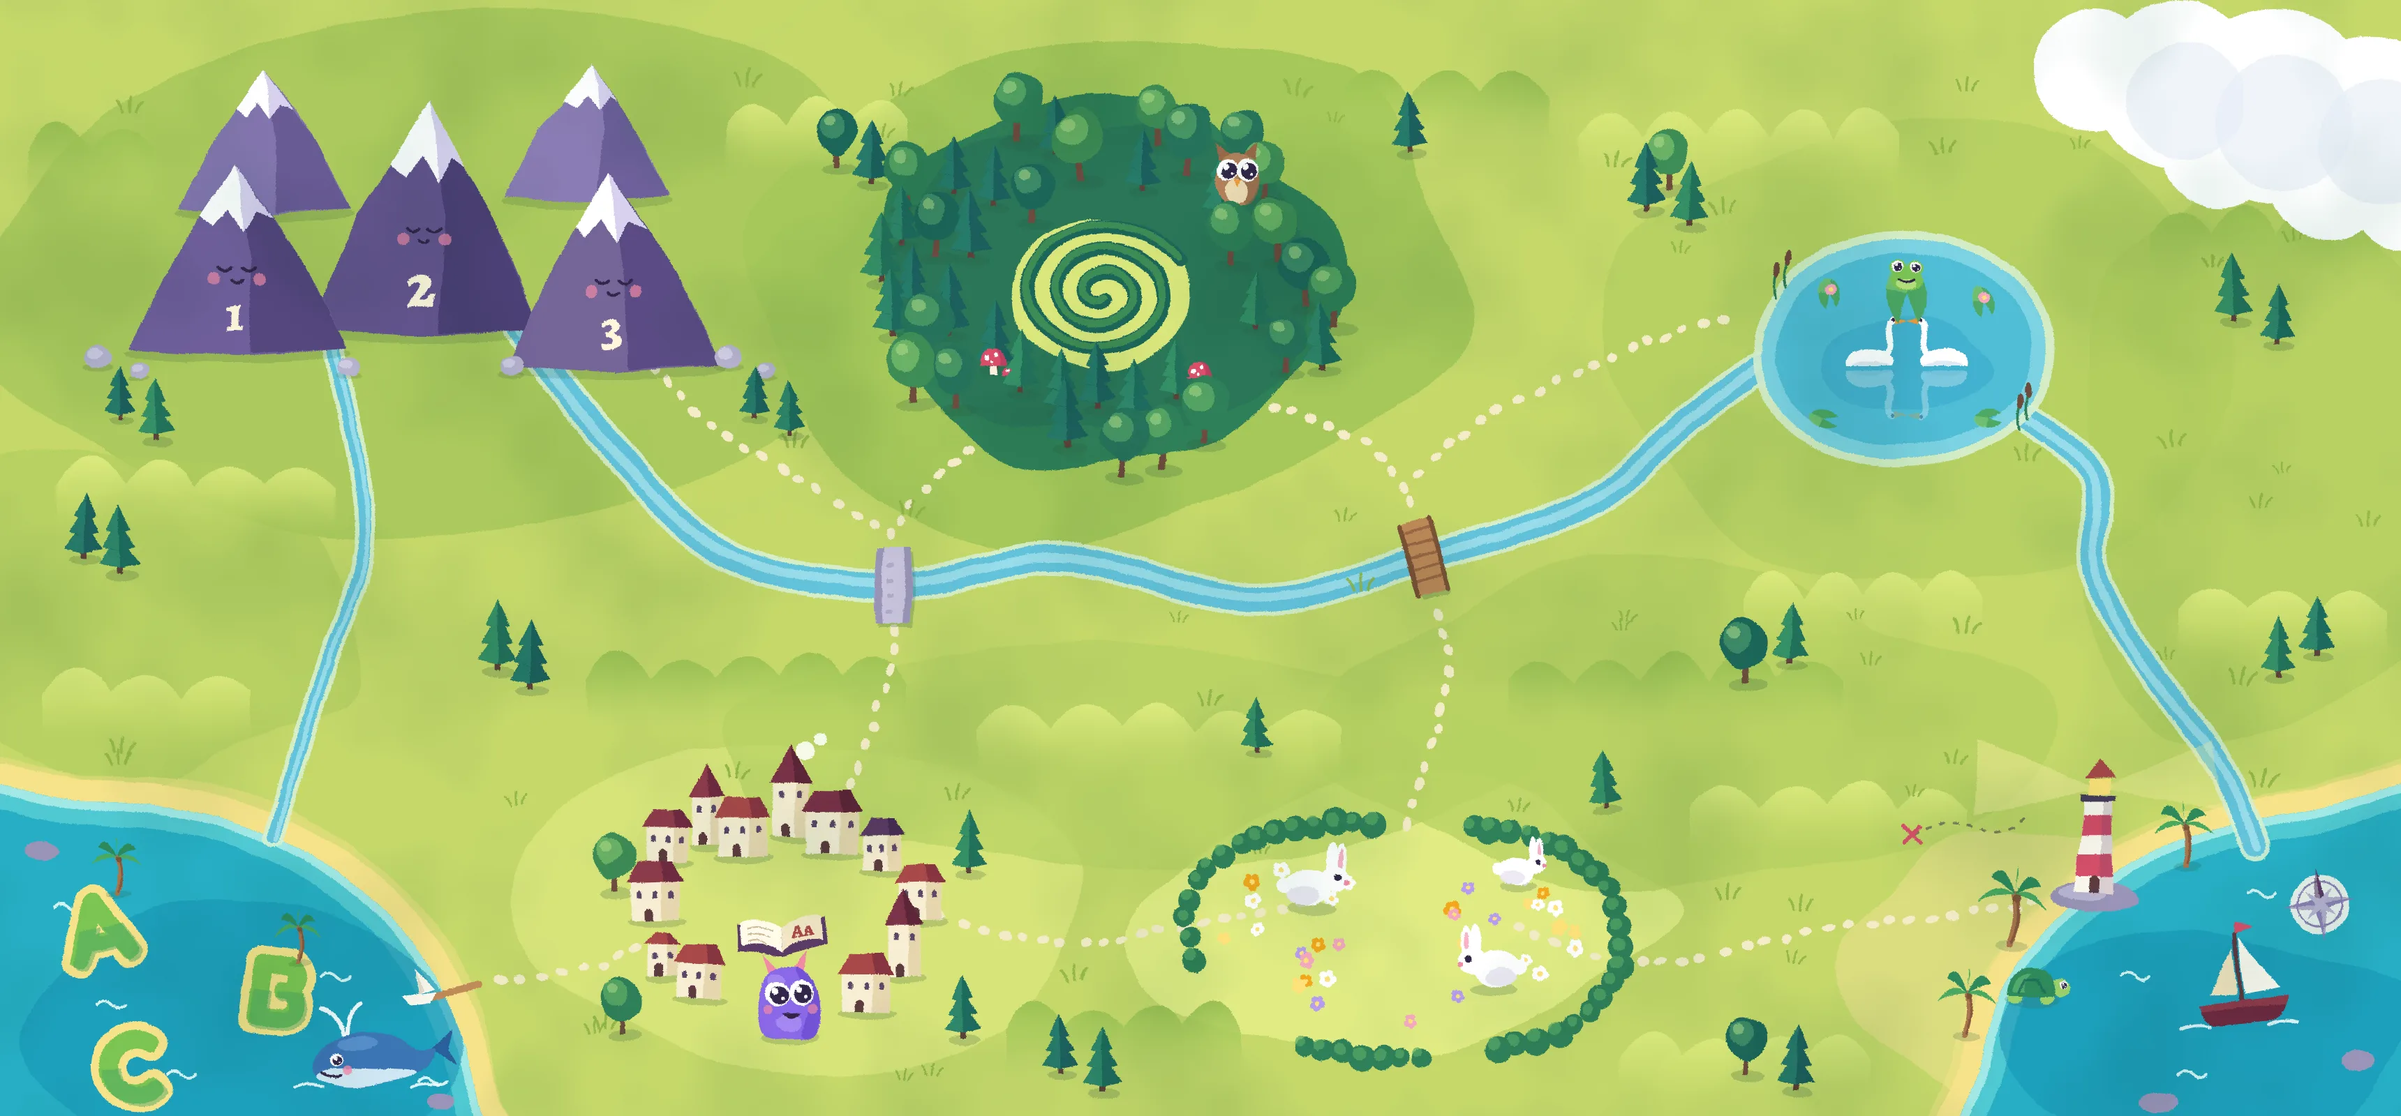
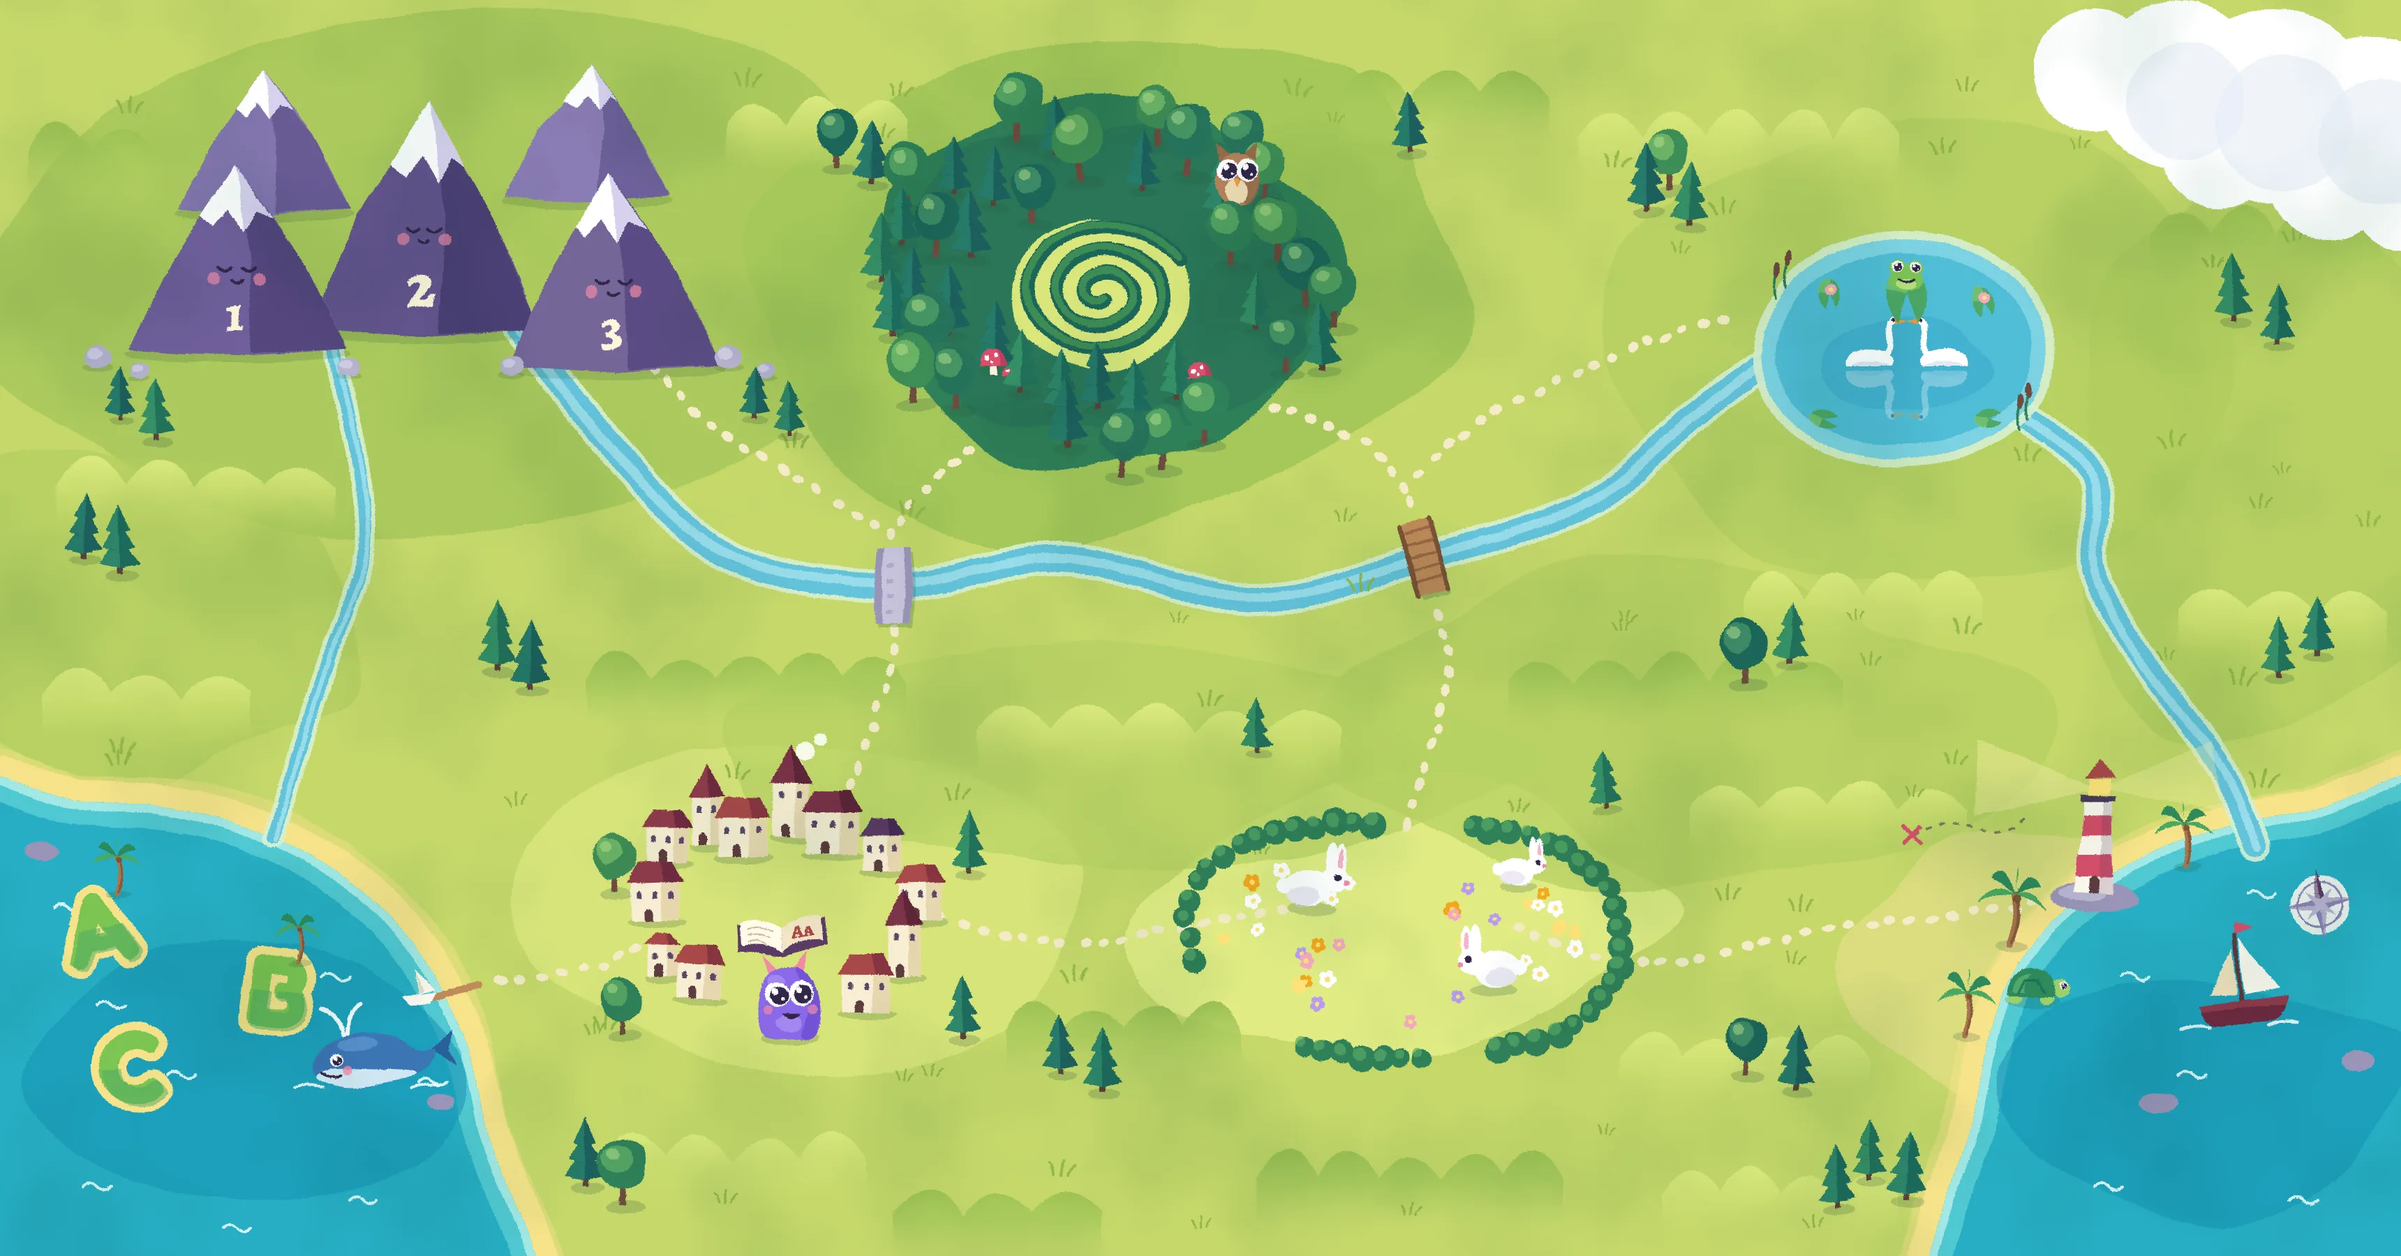
Map: longer painted bottom for today's adventure instead of a dock, settings buttons on the map
Claude-Session: https://claude.ai/code/session_01YQ9FZdsgopkwo4HT9ToY9w

diff --git a/tools/map-art/map-art.js b/tools/map-art/map-art.js
@@ -2,7 +2,7 @@
 // Everything is generated from the lists below with a fixed random seed, so the picture is the same every time.
 let sd=4711;const rnd=()=>(sd=(sd*16807)%2147483647)/2147483647;const R=(a,b)=>a+rnd()*(b-a);
 const pick=a=>a[Math.floor(rnd()*a.length)];
-const W=1720,H=800,DK='#33284a';
+const W=1720,H=900,DK='#33284a';
 const f=n=>Math.round(n*10)/10;
 function cr(p,closed=false){const n=p.length;let d=`M${f(p[0][0])} ${f(p[0][1])}`;
   const g=i=>closed?p[((i%n)+n)%n]:p[Math.max(0,Math.min(n-1,i))];const m=closed?n:n-1;
@@ -117,8 +117,8 @@ function label(x,y,lines,subt,col=DK){let o='';lines.forEach((t,i)=>o+=`<text y=
 const river=[[372,236],[440,322],[520,398],[640,420],[760,400],[900,430],[1020,400],[1140,360],[1210,300],[1262,262]];
 const outflow=[[1440,292],[1500,340],[1500,410],[1540,480],[1590,548],[1616,606]];
 const stream=[[238,246],[262,380],[236,470],[214,540],[196,600]];
-const seaL=[[-60,588],[60,574],[170,590],[262,640],[318,712],[342,790],[350,880],[-60,880]];
-const seaR=[[1780,584],[1650,582],[1540,612],[1452,682],[1420,762],[1414,880],[1780,880]];
+const seaL=[[-60,588],[60,574],[170,590],[262,640],[318,712],[346,800],[366,990],[-60,990]];
+const seaR=[[1780,584],[1650,582],[1540,612],[1452,682],[1416,790],[1400,990],[1780,990]];
 const lake=[[1262,250],[1290,196],[1352,172],[1420,184],[1462,228],[1456,286],[1404,322],[1332,326],[1280,300]];
 let g='',objs=[];const put=(y,s)=>objs.push([y,s]);
 
@@ -128,9 +128,12 @@ g+=`<rect x="-40" y="-40" width="${W+80}" height="${H+80}" fill="#c5d86b"/>`;
  .forEach(([x,y,rx,ry,c,o])=>g+=B(blob(x,y,rx,ry,12,.14),c,o));
 [[40,330,200,4,'rgL'],[420,470,230,5,'rgD'],[700,505,260,5,'rgL'],[1080,470,240,5,'rgD'],[1130,80,230,5,'rgL'],[1540,150,180,4,'rgD'],[1560,420,150,3,'rgL'],[20,90,90,2,'rgD'],[520,70,130,3,'rgL'],[960,50,150,3,'rgD'],[1210,560,200,4,'rgL'],[720,720,170,4,'rgD'],[1160,740,180,4,'rgL'],[1250,410,170,4,'rgL'],[30,480,150,3,'rgL']]
  .forEach(([x,y,w,n,gr])=>g+=ridge(x,y,w,n,gr));
+// The strip along the bottom was added later; it draws with its own seed so the rest of the picture stays as it was.
+{const keep=sd;sd=977;[[430,812,190,4,'rgL'],[900,826,220,5,'rgD'],[1190,838,170,4,'rgL'],[640,850,150,3,'rgD']].forEach(([x,y,w,n,gr])=>g+=ridge(x,y,w,n,gr));
+ [[520,862],[760,842],[1010,870],[1150,812],[1300,880],[860,880]].forEach(([x,y])=>g+=tuft(x,y));sd=keep}
 
 // seas: sand rim, shallows, deeper water
-[['cL',seaL,[[40,650],[120,770],[230,700],[300,775],[70,720]]],['cR',seaR,[[1520,700],[1610,640],[1680,760],[1560,770]]]].forEach(([id,p,wv])=>{
+[['cL',seaL,[[40,650],[120,770],[230,700],[300,775],[70,720],[60,850],[250,860],[160,880]]],['cR',seaR,[[1520,700],[1610,640],[1680,760],[1560,770],[1500,850],[1640,860]]]].forEach(([id,p,wv])=>{
   g+=line(cr(p,true),30,'#f6e28a',1)+line(cr(jit(p,4),true),40,'#f6e28a',.45)+S(cr(p,true),'#27aec4')+`<clipPath id="${id}"><path d="${cr(p,true)}"/></clipPath>`;
   let o=line(cr(p,true),34,'#5fd0d6',.75)+line(cr(p,true),12,'#b5f0ea',.8);
   const c=p.reduce((a,q)=>[a[0]+q[0]/p.length,a[1]+q[1]/p.length],[0,0]);o+=B(blob(c[0],c[1]+40,150,90,10,.15),'#1a94b6',.6);
@@ -154,7 +157,7 @@ g+=G(640,420,1,0,`<path d="M-12 -27 Q-15 0 -12 27 H12 Q15 0 12 -27Z" fill="#2c5a
 g+=G(1020,400,1,-16,`<rect x="-11" y="-27" width="22" height="54" rx="2" fill="#2c5a3a" opacity=".25" transform="translate(2 3)"/><rect x="-11" y="-27" width="22" height="54" rx="2" fill="#c08a58"/>`+[-21,-12,-3,6,15].map(q=>`<rect x="-11" y="${q}" width="22" height="2" fill="#8a5a3c" opacity=".7"/>`).join('')+`<rect x="-13" y="-28" width="3.4" height="56" rx="1.7" fill="#7d5238"/><rect x="9.6" y="-28" width="3.4" height="56" rx="1.7" fill="#7d5238"/>`);
 g+=line(`M344 706 L300 716`,5,'#c08a58',1);
 
-for(let i=0;i<70;i++){const x=R(20,W-20),y=R(40,H-20);
+for(let i=0;i<70;i++){const x=R(20,W-20),y=R(40,780);
   const no=(x<360&&y>560)||(x>1400&&y>570)||Math.hypot((x-1362)/125,(y-250)/95)<1||Math.hypot((x-290)/230,(y-190)/130)<1||Math.hypot((x-790)/175,(y-205)/145)<1||Math.hypot((x-560)/120,(y-660)/80)<1;
   if(!no)g+=tuft(x,y)}
 
@@ -193,7 +196,7 @@ g+=line(`M1372 598 q20 -14 44 -4 q20 8 34 -8`,1.8,DK,.5,'stroke-dasharray="3 7"'
 g+=palm(84,640,.95)+palm(214,690,.9)+whale(268,770,1.25)+B(blob(30,610,12,7,8,.1),'#9a94b8')+B(blob(316,790,10,6,8,.1),'#9a94b8');
 g+=G(300,712,1,-8,P([[-12,0],[12,0],[7,7],[-7,7]],'#fffaf0')+P([[0,0],[0,-17],[11,-2]],'#fffaf0')+P([[0,0],[0,-17],[4,-2]],'#e6dcc8'));
 // loose pines in small groups, as on the book's map
-[[60,400],[86,412],[1180,150],[1210,162],[1196,136],[1600,230],[1632,246],[1660,470],[1632,486],[1250,490],[1282,476],[356,480],[380,494],[1150,580],[600,120],[624,132],[1010,110],[760,770],[790,782],[1250,770],[1286,782],[900,540],[1680,110]]
+[[60,400],[86,412],[1180,150],[1210,162],[1196,136],[1600,230],[1632,246],[1660,470],[1632,486],[1250,490],[1282,476],[356,480],[380,494],[1150,580],[600,120],[624,132],[1010,110],[760,770],[790,782],[1250,770],[1286,782],[900,540],[1680,110],[420,850],[446,864],[1340,846],[1366,860],[1316,866]]
  .forEach(([x,y],i)=>put(y,i%5===4?tree(x,y,R(1,1.2)):pine(x,y,R(.95,1.25))));
 objs.sort((a,b)=>a[0]-b[0]).forEach(o=>g+=o[1]);
 

diff --git a/src/shell/map/WorldMap.tsx b/src/shell/map/WorldMap.tsx
@@ -1,20 +1,20 @@
 import { useEffect, useLayoutEffect, useMemo, useRef, useState } from 'react'
 import { games } from '../../games/registry'
-import { makeGameT, useLocale, useT } from '../../i18n'
+import { makeGameT, nextLocale, useLocale, useT, type Locale } from '../../i18n'
 import { useSize } from '../../kit/hooks'
 import { Icon } from '../../kit/icon'
 import { currentStreak, dailyDoneToday, gameProgress, loadProgress, stickerCount } from '../../kit/progress'
 import { sound } from '../../kit/sound'
-import { gameColorVars } from '../../kit/theme'
+import { ShareButton } from '../../kit/ShareButton'
+import { shareUrl } from '../../kit/share'
+import { gameColorVars, loadTheme, nextTheme, setTheme, themeIcons } from '../../kit/theme'
+import { SUPPORT_URL } from '../contact'
 import { dailyGame } from '../Home'
 import mapArt from './map.webp'
 import { MAP_H, MAP_W, mapScale, placeGames, regions } from './regions'
 
 const SCROLL_KEY = 'lg.map.x'
 const STAR = 'M0 -14 L4.1 -5.6 L13.3 -4.3 L6.6 2.1 L8.2 11.3 L0 7 L-8.2 11.3 L-6.6 2.1 L-13.3 -4.3 L-4.1 -5.6 Z'
-
-/** Height of the strip under the map that holds today's adventure or the picked game, so they never cover a star. */
-const DOCK = 72
 
 type StarState = 'done' | 'next' | 'todo'
 
@@ -45,20 +45,25 @@ export function WorldMap({
   onPlay,
   onAllGames,
   onStickers,
+  onLocale,
 }: {
   onPlay: (id: string, daily?: boolean) => void
   onAllGames: () => void
   onStickers: () => void
+  onLocale: (l: Locale) => void
 }) {
   const t = useT()
   const locale = useLocale()
   const progress = useMemo(loadProgress, [])
   const placed = useMemo(() => placeGames(games), [])
   const [wrap, size] = useSize<HTMLDivElement>({ w: 390, h: 800 })
-  const scale = mapScale(size.w, size.h - DOCK)
+  const scale = mapScale(size.w, size.h)
   const scroller = useRef<HTMLDivElement>(null)
   const [edge, setEdge] = useState({ left: false, right: false })
   const [openId, setOpenId] = useState<string | null>(null)
+  const [tools, setTools] = useState(false)
+  const [muted, setMuted] = useState(sound.isMuted())
+  const [theme, setThemeState] = useState(loadTheme)
   const drag = useRef<{ x: number; y: number; left: number; top: number; moved: boolean } | null>(null)
 
   const daily = dailyGame()
@@ -193,6 +198,39 @@ export function WorldMap({
           <span className="wm-pill-text">{t('map.allGames')}</span>
         </button>
         <span className="wm-top-gap" />
+        {/* The grown-ups' buttons: in a row on a wide screen, behind the cog on a narrow one. */}
+        <div className={`wm-tools${tools ? ' wm-tools-open' : ''}`}>
+          <button className="wm-tool" aria-label={t('language', { name: t(`lang.${locale}`) })} title={t('language', { name: t(`lang.${locale}`) })} onClick={() => onLocale(nextLocale(locale))}>
+            <span className="wm-tool-lang">{locale.toUpperCase()}</span>
+          </button>
+          <button
+            className="wm-tool"
+            aria-label={t('theme', { name: t(`theme.${theme}`) })}
+            title={t('theme', { name: t(`theme.${theme}`) })}
+            onClick={() => {
+              const next = nextTheme(theme)
+              setTheme(next)
+              setThemeState(next)
+            }}
+          >
+            {themeIcons[theme]}
+          </button>
+          <button
+            className="wm-tool"
+            aria-label={t('sound')}
+            title={t('sound')}
+            onClick={() => {
+              sound.setMuted(!muted)
+              setMuted(!muted)
+            }}
+          >
+            {muted ? '🔇' : '🔊'}
+          </button>
+          <ShareButton hint={t('share.page')} data={() => ({ title: t('appName'), text: t('share.pageText'), url: shareUrl('', locale) })} />
+          <a className="wm-tool" href={SUPPORT_URL} target="_blank" rel="noopener noreferrer" title={t('supportHint')} aria-label={t('supportHint')}>
+            <span aria-hidden>🍵</span>
+          </a>
+        </div>
         <span className="wm-pill wm-gold" role="img" aria-label={t('map.stars', { n: starCount })} title={t('map.starsHint')}>
           ★ {starCount}
         </span>
@@ -207,6 +245,13 @@ export function WorldMap({
             <path className="wm-fold" d="M21 14h-5a2 2 0 0 0-2 2v5z" />
           </svg>
           {stickers}
+        </button>
+        <button className="wm-tool wm-more" aria-label={t('map.settings')} title={t('map.settings')} aria-expanded={tools} onClick={() => setTools(!tools)}>
+          <svg viewBox="0 0 24 24" aria-hidden focusable="false">
+            <circle cx="12" cy="5" r="2.2" />
+            <circle cx="12" cy="12" r="2.2" />
+            <circle cx="12" cy="19" r="2.2" />
+          </svg>
         </button>
       </div>
 

diff --git a/src/styles.css b/src/styles.css
@@ -538,7 +538,7 @@ html:has(.app-full) { scrollbar-gutter: auto; overflow: hidden; }
 
 /* World map */
 .wm { position: relative; height: 100dvh; overflow: hidden; background: #c5d86b; color: var(--story-ink); user-select: none; -webkit-user-select: none; }
-.wm-scroll { height: calc(100% - 72px); display: flex; overflow: auto; scrollbar-width: none; cursor: grab; overscroll-behavior: contain; }
+.wm-scroll { height: 100%; display: flex; overflow: auto; scrollbar-width: none; cursor: grab; overscroll-behavior: contain; }
 .wm-scroll::-webkit-scrollbar { display: none; }
 .wm-scroll:active { cursor: grabbing; }
 /* Auto margins centre a map smaller than the window and still let a bigger one scroll from its edge. */
@@ -576,9 +576,20 @@ button.wm-pill:active, .wm-arrow:active, .scene-back:active { transform: transla
 .wm-sticker-icon path { fill: #e2607e; }
 .wm-sticker-icon .wm-fold { fill: #b63c5c; }
 @media (max-width: 520px) { .wm-pill-text { display: none; } }
+.wm-tools { display: flex; align-items: center; gap: 8px; pointer-events: auto; }
+.wm-tool, .wm-tools .icon-btn { flex: none; display: grid; place-items: center; width: 42px; height: 42px; margin: 0; padding: 0; border-radius: 50%; background: var(--story-paper); color: var(--story-ink); font-size: 1.1rem; text-decoration: none; box-shadow: 0 2px 5px rgba(40, 30, 70, 0.3); pointer-events: auto; }
+.wm-tool:active, .wm-tools .icon-btn:active { transform: translateY(2px); box-shadow: 0 2px 5px rgba(40, 30, 70, 0.3); }
+.wm-tool-lang { font-size: 0.9rem; font-weight: 800; }
+.wm-tool svg { width: 22px; height: 22px; fill: var(--story-ink); }
+.wm-more { display: none; }
+@media (max-width: 859px) {
+  .wm-more { display: grid; }
+  .wm-tools { display: none; position: absolute; top: 50px; right: 0; flex-direction: column; }
+  .wm-tools-open { display: flex; animation: popIn 0.2s; }
+}
 .wm-arrow, .scene-back { position: absolute; display: grid; place-items: center; width: 44px; height: 44px; padding: 0; border-radius: 50%; background: var(--story-paper); box-shadow: 0 2px 5px rgba(40, 30, 70, 0.3); }
 .wm-arrow svg, .scene-back svg { width: 24px; height: 24px; fill: none; stroke: var(--story-ink); stroke-width: 3.4; stroke-linecap: round; stroke-linejoin: round; }
-.wm-arrow { top: calc(50% - 36px); margin-top: -22px; }
+.wm-arrow { top: 50%; margin-top: -22px; }
 .wm-arrow-left { left: calc(10px + env(safe-area-inset-left)); }
 .wm-arrow-right { right: calc(10px + env(safe-area-inset-right)); }
 .wm-daily, .wm-card { position: absolute; left: 50%; bottom: calc(10px + env(safe-area-inset-bottom)); transform: translateX(-50%); display: flex; align-items: center; gap: 10px; max-width: calc(100% - 24px); background: var(--story-paper); color: var(--story-ink); box-shadow: 0 3px 8px rgba(40, 30, 70, 0.35); text-align: left; }

diff --git a/src/shell/map/WorldMap.test.tsx b/src/shell/map/WorldMap.test.tsx
@@ -12,7 +12,7 @@ afterEach(() => {
 describe('WorldMap', () => {
   it('shows a star for every game and opens a game from its star', () => {
     const onPlay = vi.fn()
-    render(<WorldMap onPlay={onPlay} onAllGames={() => {}} onStickers={() => {}} />)
+    render(<WorldMap onPlay={onPlay} onAllGames={() => {}} onStickers={() => {}} onLocale={() => {}} />)
     expect(document.querySelectorAll('.wm-star')).toHaveLength(games.length)
     fireEvent.click(screen.getByLabelText('Feed the Monster'))
     fireEvent.click(screen.getByText('Play!'))
@@ -21,7 +21,7 @@ describe('WorldMap', () => {
 
   it('turns the star of a played game gold and counts it', () => {
     recordRound('feed-monster', 'maths', { score: 10, accuracy: 1 })
-    render(<WorldMap onPlay={() => {}} onAllGames={() => {}} onStickers={() => {}} />)
+    render(<WorldMap onPlay={() => {}} onAllGames={() => {}} onStickers={() => {}} onLocale={() => {}} />)
     expect(screen.getByLabelText('Feed the Monster').className).toContain('wm-done')
     expect(screen.getByLabelText('Stars: 1')).toBeTruthy()
   })
@@ -29,7 +29,7 @@ describe('WorldMap', () => {
   it("starts today's adventure and leads to the list of all games", () => {
     const onPlay = vi.fn()
     const onAllGames = vi.fn()
-    render(<WorldMap onPlay={onPlay} onAllGames={onAllGames} onStickers={() => {}} />)
+    render(<WorldMap onPlay={onPlay} onAllGames={onAllGames} onStickers={() => {}} onLocale={() => {}} />)
     fireEvent.click(screen.getByText("Today's adventure"))
     expect(onPlay.mock.calls[0][1]).toBe(true)
     fireEvent.click(screen.getByLabelText('All games'))

diff --git a/src/shell/map/regions.test.ts b/src/shell/map/regions.test.ts
@@ -20,13 +20,14 @@ describe('map regions', () => {
       expect(x).toBeGreaterThan(20)
       expect(x).toBeLessThan(MAP_W - 20)
       expect(y).toBeGreaterThan(80)
-      expect(y).toBeLessThan(MAP_H - 16)
+      // The bottom strip stays free for today's adventure.
+      expect(y).toBeLessThan(MAP_H - 100)
     })
     slots.forEach(([x, y], i) => slots.slice(i + 1).forEach(([a, b]) => expect(Math.hypot(x - a, y - b), `${x},${y} and ${a},${b}`).toBeGreaterThan(48)))
   })
 
   it('fits the height on a phone and the whole map on a wide screen', () => {
-    expect(mapScale(390, 800)).toBe(1)
+    expect(mapScale(390, 900)).toBe(1)
     const wide = mapScale(1920, 1080)
     expect(MAP_W * wide).toBeLessThanOrEqual(1920)
     expect(MAP_H * wide).toBeLessThanOrEqual(1080)

diff --git a/src/shell/map/regions.ts b/src/shell/map/regions.ts
@@ -1,9 +1,12 @@
 import type { AppKey } from '../../i18n'
 import type { GameDef, Skill } from '../../kit/types'
 
-/** The picture (map.webp, drawn by tools/map-art) is this big; every position below is in these units. */
+/**
+ * The picture (map.webp, drawn by tools/map-art) is this big; every position below is in these units.
+ * The bottom 100 units are plain ground with no stars: today's adventure and the picked game's card sit over it.
+ */
 export const MAP_W = 1720
-export const MAP_H = 800
+export const MAP_H = 900
 
 export interface Region {
   id: string

diff --git a/src/shell/App.tsx b/src/shell/App.tsx
@@ -62,7 +62,7 @@ export function App() {
         ) : route.mode === 'games' ? (
           <Home onPlay={play} onLocale={changeLocale} onMap={() => go('/')} />
         ) : (
-          <WorldMap onPlay={play} onAllGames={() => go('/games')} onStickers={() => go('/stickers')} />
+          <WorldMap onPlay={play} onAllGames={() => go('/games')} onStickers={() => go('/stickers')} onLocale={changeLocale} />
         )}
       </main>
     </LocaleContext.Provider>

diff --git a/src/i18n/hu.ts b/src/i18n/hu.ts
@@ -95,6 +95,7 @@ const hu: Record<keyof typeof en, string> = {
   'scene.progress': '{n} kész ennyiből: {total}',
   'scene.next': 'Tovább a {n}. szakaszra',
   'map.title': 'Játékország',
+  'map.settings': 'Beállítások',
   'map.allGames': 'Minden játék',
   'map.open': 'Térkép',
   'map.adventure': 'Mai kaland',

diff --git a/src/i18n/en.ts b/src/i18n/en.ts
@@ -93,6 +93,7 @@ const en = {
   'scene.progress': '{n} of {total} done',
   'scene.next': 'On to stage {n}',
   'map.title': 'Gameland',
+  'map.settings': 'Settings',
   'map.allGames': 'All games',
   'map.open': 'Map',
   'map.adventure': "Today's adventure",
